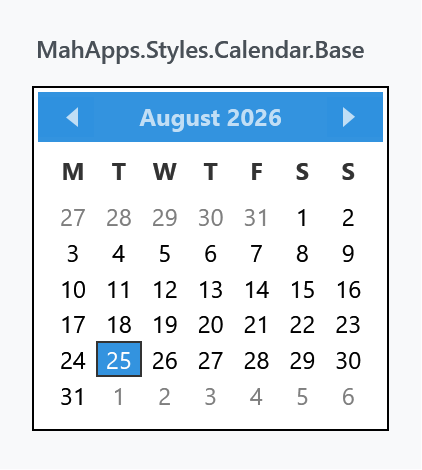
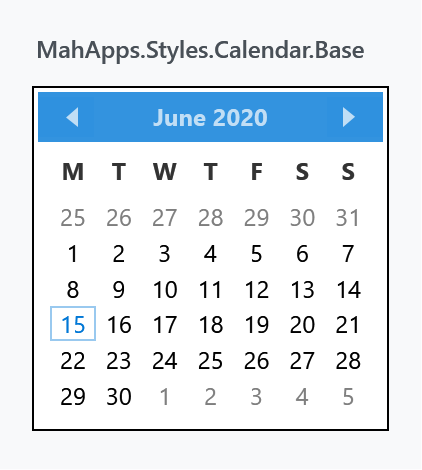
Write the CheckBox styles page
The page was a "coming soon" placeholder. Cover the implicit style, the
Win10 variant, the three states, the reversed layout, and how the look is
changed through CheckBoxHelper.

The two styles differ in more than colour, which shows when they are mixed
in one dialog: the default draws a hollow box with a coloured tick, Win10
fills the box with the accent and turns the tick white, and it also brings
CheckSize 20 against 18, a 2px stroke against 1, and MinWidth 120 - so a
row of Win10 check boxes stands far apart however short the labels.

Counted rather than estimated: both styles set all 72 CheckBoxHelper
brushes themselves, verified by generating the expected
{Part}{CheckState}{Interaction} names and diffing them against the
top-level setters. That is the practical point - an override always
replaces a value the style set, so a half-finished one shows up as a
single state looking wrong rather than as nothing happening.

Four figures. Also pin the DatePicker calendar figure to a month safely in
the past: the style sets IsTodayHighlighted, so a calendar showing the
current month moved its accent fill from the 25th to the 27th between two
runs of the generator.

diff --git a/screenshots/StyleShots/Program.cs b/screenshots/StyleShots/Program.cs
@@ -46,6 +46,7 @@ namespace StyleShots
                 {
                     try
                     {
+                        await CheckBoxFiguresAsync();
                         await ButtonFiguresAsync();
                         await TextBoxFiguresAsync();
                         await ComboBoxFiguresAsync();
@@ -150,6 +151,54 @@ namespace StyleShots
                                                                    mah:TextBoxHelper.ButtonFontSize=""12""
                                                                    mah:TextBoxHelper.ButtonWidth=""48""
                                                                    Text=""metro"" />"))));
+        }
+
+        private static async Task CheckBoxFiguresAsync()
+        {
+            await CaptureAsync("styles", "checkbox-styles",
+                Showcase(
+                    ("implicit style", Xaml(@"<StackPanel Width=""150"">
+                                                <CheckBox Content=""Unchecked"" />
+                                                <CheckBox Margin=""0 8 0 0"" Content=""Checked"" IsChecked=""True"" />
+                                              </StackPanel>")),
+                    ("MahApps.Styles.CheckBox.Win10", Xaml(@"<StackPanel Width=""150"">
+                                                <CheckBox Style=""{StaticResource MahApps.Styles.CheckBox.Win10}"" Content=""Unchecked"" />
+                                                <CheckBox Margin=""0 8 0 0"" Style=""{StaticResource MahApps.Styles.CheckBox.Win10}"" Content=""Checked"" IsChecked=""True"" />
+                                              </StackPanel>"))));
+
+            await CaptureAsync("styles", "checkbox-states",
+                Showcase(
+                    ("Unchecked", Xaml(@"<CheckBox Content=""Unchecked"" />")),
+                    ("Checked", Xaml(@"<CheckBox Content=""Checked"" IsChecked=""True"" />")),
+                    ("Indeterminate", Xaml(@"<CheckBox Content=""Indeterminate"" IsChecked=""{x:Null}"" IsThreeState=""True"" />")),
+                    ("Disabled", Xaml(@"<CheckBox Content=""Disabled"" IsChecked=""True"" IsEnabled=""False"" />"))));
+
+            // The same box under the three groups of properties the page names:
+            // size, shape, and the brushes for one state.
+            await CaptureAsync("styles", "checkbox-custom",
+                Showcase(
+                    ("default", Xaml(@"<CheckBox Content=""Checked"" IsChecked=""True"" />")),
+                    ("CheckSize", Xaml(@"<CheckBox mah:CheckBoxHelper.CheckSize=""26"" Content=""Checked"" IsChecked=""True"" />")),
+                    ("+ CheckCornerRadius", Xaml(@"<CheckBox mah:CheckBoxHelper.CheckSize=""26""
+                                                             mah:CheckBoxHelper.CheckCornerRadius=""13""
+                                                             Content=""Checked"" IsChecked=""True"" />")),
+                    ("+ recoloured", Xaml(@"<CheckBox mah:CheckBoxHelper.CheckSize=""26""
+                                                      mah:CheckBoxHelper.CheckCornerRadius=""13""
+                                                      mah:CheckBoxHelper.CheckBackgroundFillChecked=""#2E7D32""
+                                                      mah:CheckBoxHelper.CheckBackgroundStrokeChecked=""#2E7D32""
+                                                      mah:CheckBoxHelper.CheckGlyphForegroundChecked=""White""
+                                                      Content=""Checked"" IsChecked=""True"" />"))));
+
+            await CaptureAsync("styles", "checkbox-layout",
+                Showcase(
+                    ("default", Xaml(@"<StackPanel Width=""170"">
+                                         <CheckBox Content=""Wrap lines"" IsChecked=""True"" />
+                                         <CheckBox Margin=""0 8 0 0"" Content=""Show line numbers"" />
+                                       </StackPanel>")),
+                    ("ContentDirection=RightToLeft", Xaml(@"<StackPanel Width=""170"">
+                                         <CheckBox mah:ToggleButtonHelper.ContentDirection=""RightToLeft"" Content=""Wrap lines"" IsChecked=""True"" />
+                                         <CheckBox Margin=""0 8 0 0"" mah:ToggleButtonHelper.ContentDirection=""RightToLeft"" Content=""Show line numbers"" />
+                                       </StackPanel>"))));
         }
 
         private static async Task ButtonFiguresAsync()
@@ -362,11 +411,16 @@ namespace StyleShots
             // The drop-down draws its calendar in a popup, which lives in its
             // own window and is out of reach of RenderTargetBitmap. A Calendar
             // carrying the same style shows exactly what the drop-down shows.
+            //
+            // The month is pinned to one safely in the past. The DatePicker
+            // style sets IsTodayHighlighted, so a calendar showing the current
+            // month puts an accent fill on whatever day it happens to be - the
+            // figure then changes every day the generator runs.
             await CaptureAsync("styles", "datepicker-calendar",
                 Showcase(
                     ("MahApps.Styles.Calendar.Base",
                         Xaml(@"<Calendar Style=""{StaticResource MahApps.Styles.Calendar.Base}""
-                                         DisplayDate=""2026-08-25"" SelectedDate=""2026-08-25"" />"))));
+                                         DisplayDate=""2020-06-15"" SelectedDate=""2020-06-15"" />"))));
         }
 
         private static async Task PasswordBoxFiguresAsync()

diff --git a/input/docs/styles/checkbox.md b/input/docs/styles/checkbox.md
@@ -2,4 +2,90 @@ Title: CheckBox
 Description: The CheckBox styles
 ---
 
-_coming soon_
+Every `CheckBox` in a MahApps application is styled without any markup on your side. There is one alternative style with the Windows 10 look, and everything about the appearance — size, shape, glyph and the colour of each state — is reachable through attached properties.
+
+![The default CheckBox and the Win10 variant](images/checkbox-styles.png)
+
+## The implicit style
+
+`Styles/Controls.xaml` applies `MahApps.Styles.CheckBox` to every `CheckBox`. Merging that dictionary — which the [quick start](../guides/quick-start) does — is all it takes:
+
+```xml
+<ResourceDictionary Source="pack://application:,,,/MahApps.Metro;component/Styles/Controls.xaml" />
+```
+
+To extend rather than replace, base your own style on the keyed one:
+
+```xml
+<Style BasedOn="{StaticResource MahApps.Styles.CheckBox}" TargetType="{x:Type CheckBox}">
+    <Setter Property="mah:CheckBoxHelper.CheckSize" Value="22" />
+</Style>
+```
+
+## The two styles
+
+| Style | |
+| --- | --- |
+| `MahApps.Styles.CheckBox` | the default: an outlined box with a coloured tick inside it |
+| `MahApps.Styles.CheckBox.Win10` | the Windows 10 look: the box fills with the accent colour and the tick turns white |
+
+```xml
+<CheckBox Style="{StaticResource MahApps.Styles.CheckBox.Win10}" Content="Checked" />
+```
+
+The Win10 style derives from the default one and differs in more than colour, which matters if you mix the two in one dialog:
+
+| | default | Win10 |
+| --- | --- | --- |
+| `CheckSize` | `18` | `20` |
+| `CheckStrokeThickness` | `1` | `2` |
+| `MinHeight` | — | `32` |
+| `MinWidth` | — | `120` |
+| `Padding` | `6 0 0 0` | `8 0 0 0` |
+
+:::{.alert .alert-warning}
+`MinWidth="120"` is the one to watch. A Win10 check box is at least 120 pixels wide however short its label, so a row of them in a `StackPanel` with `Orientation="Horizontal"` comes out spaced far apart. Set `MinWidth="0"` where that is not what you want.
+:::
+
+## The states
+
+![Unchecked, checked, indeterminate and disabled](images/checkbox-states.png)
+
+`IsThreeState="True"` lets the value cycle through `null`, and unlike a [ToggleButton](togglebutton) the check box draws that state distinctly — a dash rather than a tick — so the user can tell the three apart.
+
+## Content on the other side
+
+`ToggleButtonHelper.ContentDirection` moves the box to the right of the label. The style's own trigger switches `HorizontalContentAlignment` to `Right` and flips the padding along with it, so the label stays properly spaced:
+
+![The default layout and the reversed one](images/checkbox-layout.png)
+
+```xml
+<CheckBox mah:ToggleButtonHelper.ContentDirection="RightToLeft" Content="Wrap lines" />
+```
+
+That is the layout for a settings list, where labels on the left with the boxes lined up on the right read better than a ragged column. This is not the control's own `FlowDirection`, which would mirror the text as well. See [ToggleButtonHelper](../helper/togglebuttonhelper).
+
+## Changing the look
+
+Everything visual comes from [CheckBoxHelper](../helper/checkboxhelper), which has 81 attached properties — three for size and shape, six glyph properties, and 72 brushes following one naming scheme. The full explanation is on that page; the short version is that the box grows, rounds and recolours without touching the template:
+
+![The default box, enlarged, rounded and recoloured](images/checkbox-custom.png)
+
+```xml
+<CheckBox mah:CheckBoxHelper.CheckSize="26"
+          mah:CheckBoxHelper.CheckCornerRadius="13"
+          mah:CheckBoxHelper.CheckBackgroundFillChecked="#2E7D32"
+          mah:CheckBoxHelper.CheckBackgroundStrokeChecked="#2E7D32"
+          mah:CheckBoxHelper.CheckGlyphForegroundChecked="White"
+          Content="Checked" />
+```
+
+The brushes are named `{Part}{CheckState}{Interaction}` — so `CheckBackgroundFillChecked` is the inside of the box while checked, and `CheckBackgroundFillCheckedMouseOver` the same under the pointer. Recolouring one state changes only that state.
+
+:::{.alert .alert-info}
+Both styles set **all 72** brushes themselves — that is what separates them. The default points `CheckBackgroundFill*` at the theme background so the box stays hollow with a coloured tick; Win10 points the same twelve properties at the accent brushes so the box fills and the tick turns white. So you are always overriding a value the style already set, never filling in a blank, and a half-finished override shows up as one state looking out of place rather than as nothing happening at all.
+:::
+
+## Related
+
+`RadioButton` is the same idea with a circle instead of a box; see [RadioButtonHelper](../helper/radiobuttonhelper). For a check box that reads as a setting rather than a tick, the `ToggleSwitch` control has an on/off track and its own header.
